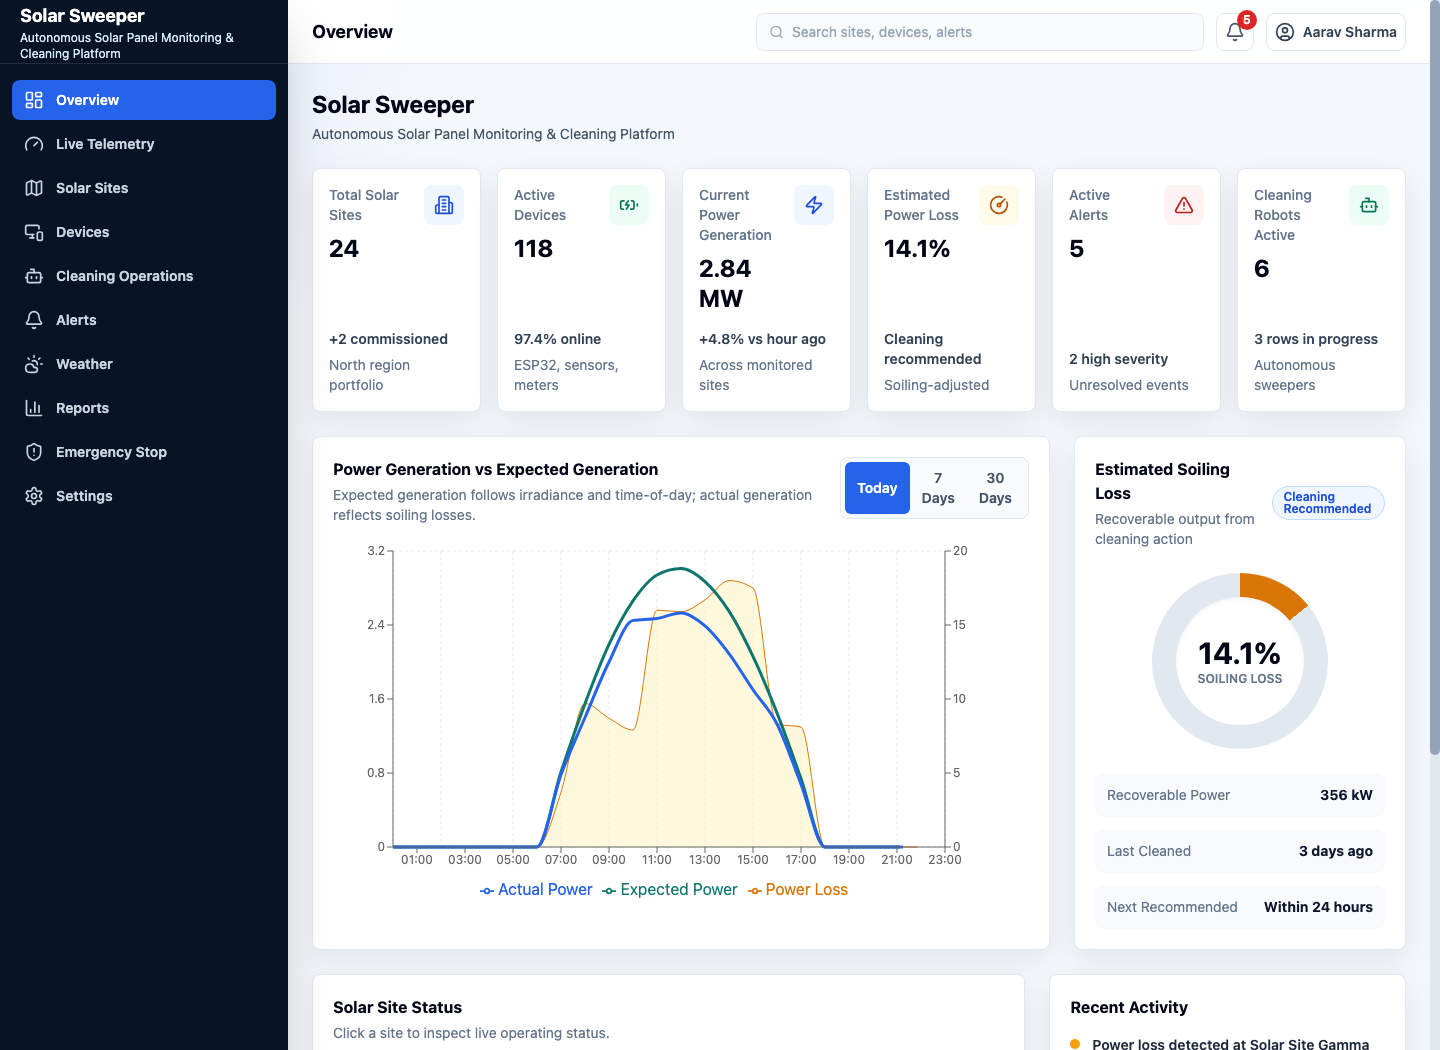
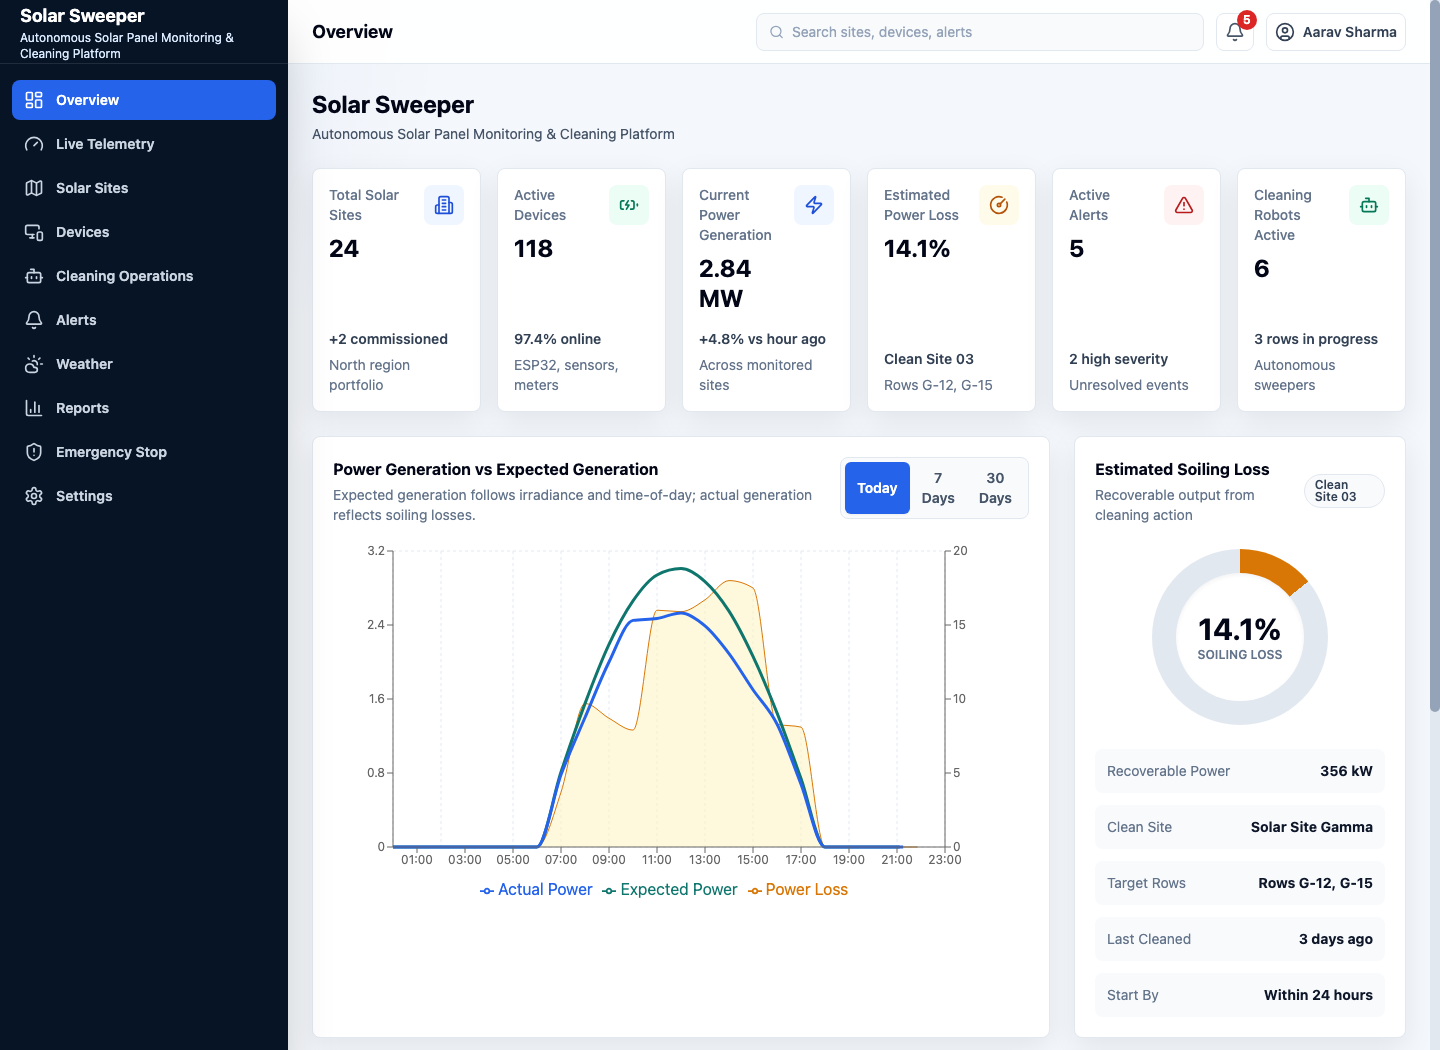
Show cleaning target rows

diff --git a/src/pages/OverviewPage.tsx b/src/pages/OverviewPage.tsx
@@ -24,10 +24,38 @@ import { formatMw, formatPercent } from "../utils/format";
 const timeframeOptions: Timeframe[] = ["Today", "7 Days", "30 Days"];
 
 export function OverviewPage() {
-  const { loading, summary, sites, activities } = useSolarData();
+  const { loading, summary, sites, robots, activities } = useSolarData();
   const [timeframe, setTimeframe] = useState<Timeframe>("Today");
   const [selectedSite, setSelectedSite] = useState<SolarSite | null>(null);
   const generationData = useMemo(() => generateGenerationSeries(timeframe), [timeframe]);
+  const prioritySite = useMemo(() => {
+    const activeRowTargetSiteIds = new Set(
+      robots
+        .filter((robot) => ["Cleaning", "Paused"].includes(robot.status) && robot.section.startsWith("Row"))
+        .map((robot) => robot.currentSiteId)
+    );
+    const actionableSites = sites.filter((site) => activeRowTargetSiteIds.has(site.id));
+    const candidates = actionableSites.length > 0 ? actionableSites : sites.filter((site) => site.health !== "Offline");
+
+    return candidates.reduce<SolarSite | null>(
+      (highest, site) => (!highest || site.powerLossPct > highest.powerLossPct ? site : highest),
+      null
+    );
+  }, [robots, sites]);
+  const prioritySections = useMemo(() => {
+    if (!prioritySite) {
+      return [];
+    }
+
+    return robots
+      .filter((robot) => robot.currentSiteId === prioritySite.id && ["Cleaning", "Paused"].includes(robot.status) && robot.section.startsWith("Row"))
+      .map((robot) => robot.section);
+  }, [prioritySite, robots]);
+  const prioritySiteLabel = prioritySite?.shortName ?? "highest-loss site";
+  const priorityTargetLabel =
+    prioritySections.length > 1
+      ? `Rows ${prioritySections.map((section) => section.replace(/^Row\s+/, "")).join(", ")}`
+      : prioritySections[0] ?? prioritySite?.name ?? "highest-loss array";
 
   if (loading) {
     return <LoadingSkeleton />;
@@ -68,8 +96,8 @@ export function OverviewPage() {
         <StatCard
           title="Estimated Power Loss"
           value={formatPercent(summary.estimatedPowerLossPct)}
-          subtitle="Soiling-adjusted"
-          trend="Cleaning recommended"
+          subtitle={priorityTargetLabel}
+          trend={`Clean ${prioritySiteLabel}`}
           icon={CircleGauge}
           tone="amber"
         />
@@ -143,7 +171,7 @@ export function OverviewPage() {
               <h2 className="text-base font-bold text-slate-950">Estimated Soiling Loss</h2>
               <p className="mt-1 text-sm text-slate-500">Recoverable output from cleaning action</p>
             </div>
-            <StatusBadge status="Cleaning Recommended" />
+            <StatusBadge status={`Clean ${prioritySiteLabel}`} />
           </div>
           <div className="mt-6 flex flex-col items-center">
             <div
@@ -160,8 +188,10 @@ export function OverviewPage() {
           </div>
           <div className="mt-6 grid gap-3 text-sm">
             <GaugeMetric label="Recoverable Power" value="356 kW" />
+            <GaugeMetric label="Clean Site" value={prioritySite?.name ?? "Highest-loss site"} />
+            <GaugeMetric label="Target Rows" value={priorityTargetLabel} />
             <GaugeMetric label="Last Cleaned" value="3 days ago" />
-            <GaugeMetric label="Next Recommended" value="Within 24 hours" />
+            <GaugeMetric label="Start By" value="Within 24 hours" />
           </div>
         </section>
       </div>

diff --git a/src/data/weather.ts b/src/data/weather.ts
@@ -103,7 +103,7 @@ export const weatherSnapshots: WeatherSnapshot[] = [
     windKph: 18,
     precipitationChancePct: 4,
     irradianceWm2: 875,
-    recommendation: "Low rain probability and high dust accumulation detected. Cleaning recommended within 24 hours.",
+    recommendation: "Low rain probability and high dust accumulation detected. Clean rows G-12 and G-15 within 24 hours.",
     forecast: forecast(4)
   },
   {

diff --git a/src/data/sites.ts b/src/data/sites.ts
@@ -75,7 +75,7 @@ export const solarSites: SolarSite[] = [
     currentProductionMw: 0.41,
     expectedProductionMw: 0.52,
     powerLossPct: calculatePowerLossPct(0.52, 0.41),
-    cleaningStatus: "Cleaning recommended",
+    cleaningStatus: "Clean rows G-12 and G-15",
     weatherCondition: "Dust Haze",
     health: "Power Loss",
     ambientTempC: 36,
